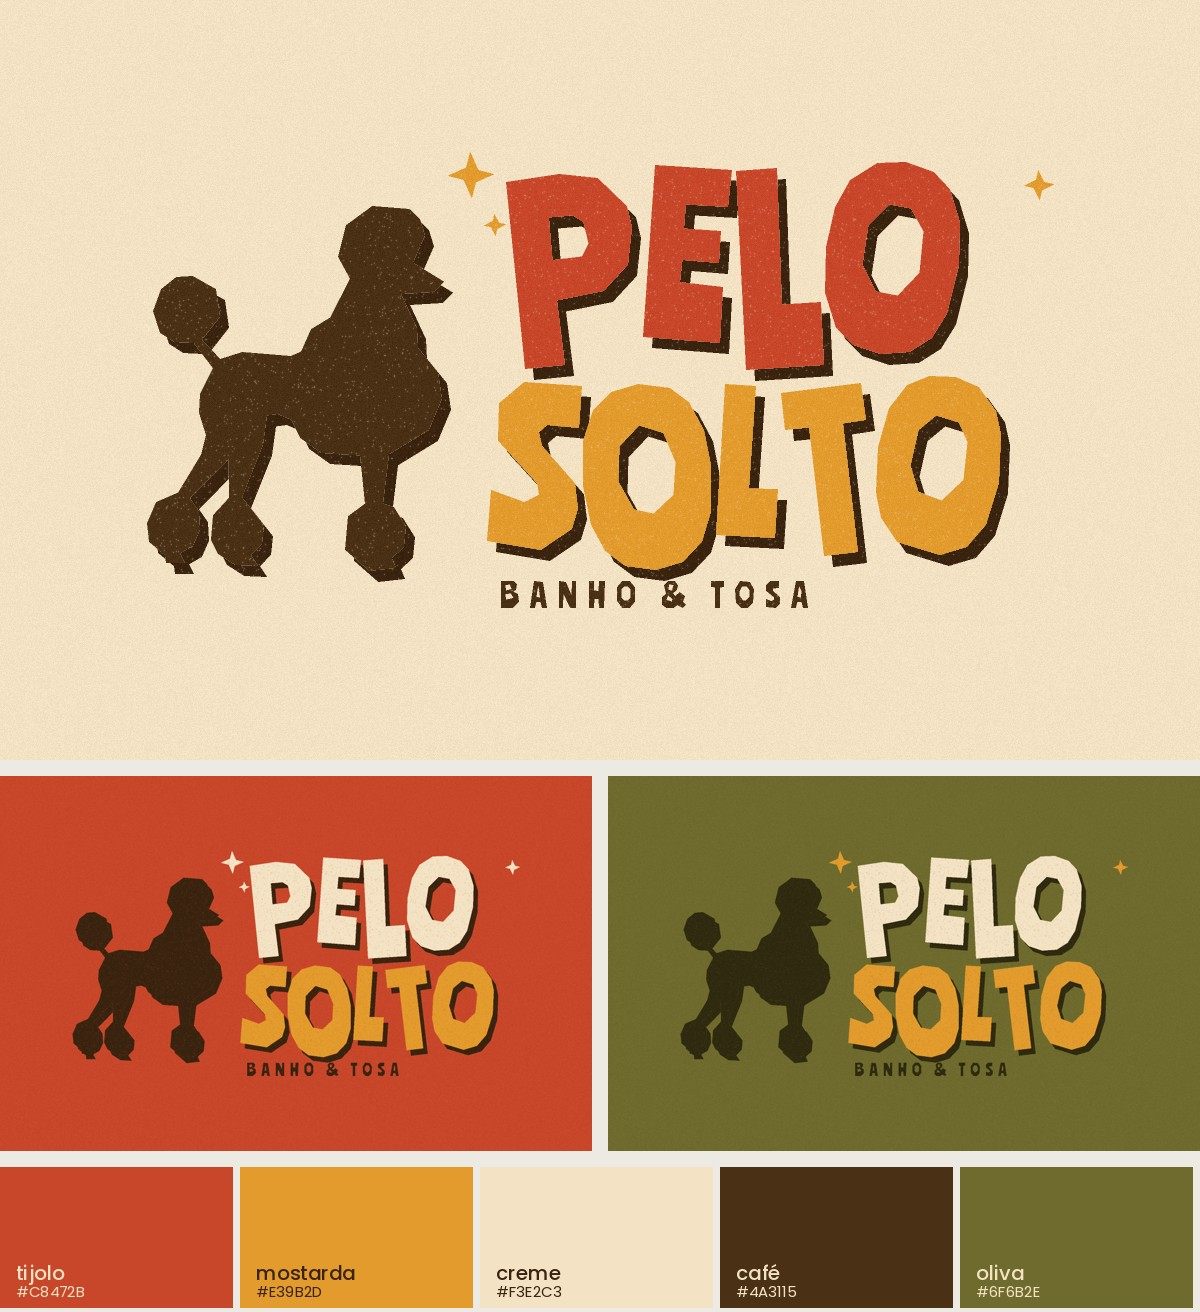
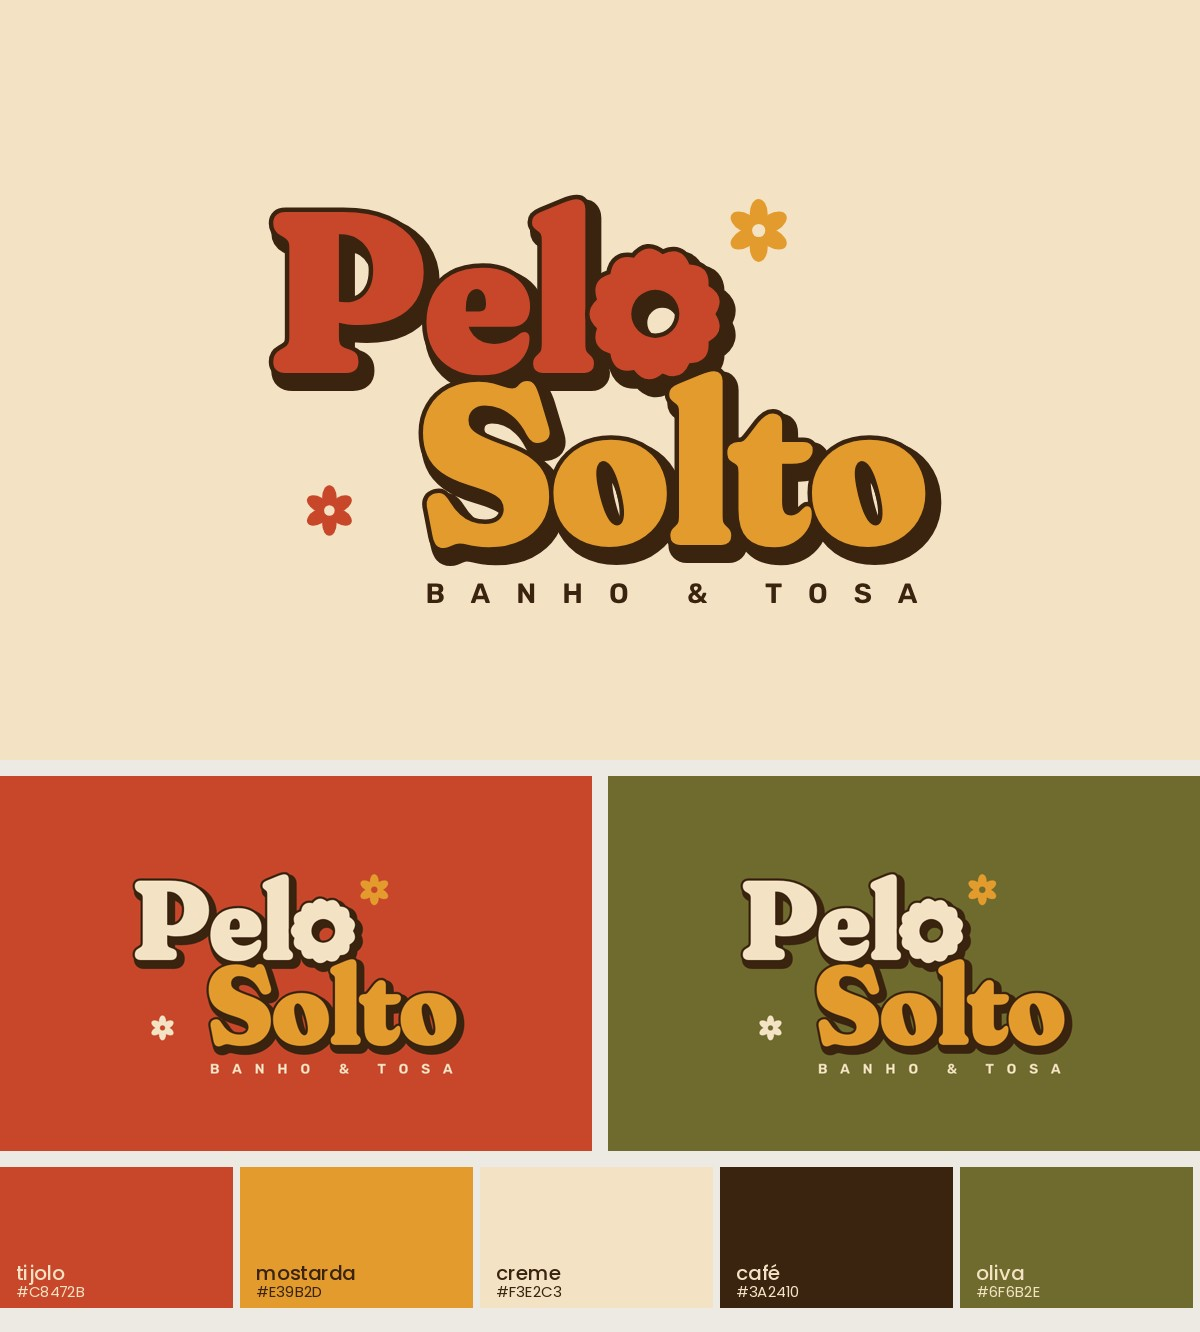
EMS: pelo solto v3, lettering com o pompom de poodle no lugar do o
A Emi achou a v2 com cara de IA: o poodle de clip-art, os brilhos
genéricos e o bloco centralizado. Na v3, Pelo e Solto ficam escalonados e
encaixados (Haley Sue), o o de Pelo vira um pompom de poodle tosado, as
flores de seis pétalas entram no lugar dos brilhos, o contorno e a sombra
café do Moon Gazer continuam e o BANHO & TOSA tem a largura exata de
Solto. A v2 fica em logo-v2-poodle.html.

Claude-Session: https://claude.ai/code/session_01CmCiK9WG5RWJH1hBNUU9U9

diff --git a/Emi/ems-5-direcoes-pet/projeto/marcas/pelo-solto/logo.html b/Emi/ems-5-direcoes-pet/projeto/marcas/pelo-solto/logo.html
@@ -1,72 +1,81 @@
 <!doctype html>
-<!-- pelo solto · logo v2 (a v1 de papel recortado foi reprovada: "quero mais refinado e arredondado, bem vintage, siga as
-     referências; o banho e tosa embaixo totalmente desalinhado, péssimo").
-     Referências (referencias/pelo-solto): 2 Haley Sue (serifa anos 70 macia, paleta), 3 Moon Gazer (duas cores, contorno e
-     sombra café, brilhos, subtítulo espaçado embaixo), 20 The Barking Barber (o bicho ao lado do nome, letras dançando de leve).
-     Tudo num eixo só: Pelo, Solto e BANHO & TOSA centralizados na mesma linha vertical; o subtítulo tem exatamente a largura
-     de "Solto" (textLength), e o poodle fica centrado na altura do bloco.
-     ?letra=fraunces (serifa macia, padrão) | ?letra=leckerli (script, Moon Gazer) · ?fundo=&pelo=&solto=&tinta= · ?w=&h=&escala= -->
+<!-- pelo solto · logo v3. Histórico:
+     - v1, papel recortado, reprovada: "quero mais refinado e arredondado, bem vintage; o banho e tosa desalinhado";
+     - v2, A: serifa macia com o poodle ao lado (logo-v2-poodle.html): "a A tá melhor, mas ainda tá com cara de IA".
+       O que dava cara de IA: o poodle de clip-art gerado, os brilhos genéricos e tudo em bloco centralizado.
+     Na v3 sai o clip-art e a marca vira lettering de verdade, como o Haley Sue (2):
+       - "Pelo" e "Solto" escalonados e encaixados (Solto entra por baixo, deslocado para a direita);
+       - o "o" de "Pelo" vira um pompom de poodle tosado (borda fofinha em ondas, miolo redondo): o cachorro está na letra;
+       - flores de seis pétalas do Haley Sue no lugar dos brilhos;
+       - contorno e sombra café do Moon Gazer (3), mantidos porque ela gostou;
+       - BANHO & TOSA pequeno embaixo de "Solto", com a largura exata dele (a regra que resolveu o desalinhamento da v1).
+     ?fundo=&pelo=&solto=&tinta=&sub= · ?w=&h=&escala=&dx=&dy= -->
 <html><head><meta charset="utf-8"><style>
 @font-face { font-family: Fraunces; src: url(../../fonts/Fraunces.woff2); font-weight: 100 900; }
-@font-face { font-family: Leckerli; src: url(../../fonts/LeckerliOne.woff2); }
 @font-face { font-family: Rubik; src: url(../../fonts/Rubik-var-latin.woff2); font-weight: 300 900; }
 html, body { margin: 0; }
 .palco { position: relative; width: 1200px; height: 760px; overflow: hidden; background: var(--fundo); }
 svg { position: absolute; left: 0; top: 0; }
-.fraunces .n { font-family: Fraunces; font-weight: 900; font-variation-settings: 'SOFT' 100, 'WONK' 1, 'opsz' 144; }
-.leckerli .n { font-family: Leckerli; }
+.n { font-family: Fraunces; font-weight: 900; font-variation-settings: 'SOFT' 100, 'WONK' 1, 'opsz' 144; }
 .sub { font-family: Rubik; font-weight: 600; }
 </style></head><body>
 <div class="palco"><svg id="s" width="1200" height="760" viewBox="0 0 1200 760">
-  <defs><filter id="tinge"><feFlood id="cor-cao" flood-color="#4A3115"/><feComposite in2="SourceAlpha" operator="in"/></filter></defs>
   <g id="logo">
-    <image id="cao" href="poodle-liso.png" filter="url(#tinge)"/>
-    <g id="nome" text-anchor="middle">
-      <!-- sombra (contorno grosso deslocado) e frente (cor + contorno fino) -->
-      <text class="n sh" id="p0" stroke-linejoin="round">Pelo</text>
-      <text class="n" id="p1" stroke-linejoin="round" paint-order="stroke">Pelo</text>
-      <text class="n sh" id="s0" stroke-linejoin="round">Solto</text>
-      <text class="n" id="s1" stroke-linejoin="round" paint-order="stroke">Solto</text>
-      <text class="sub" id="sub" lengthAdjust="spacing">BANHO &amp; TOSA</text>
-    </g>
-    <g id="brilhos"></g>
+    <g id="sombras"></g>
+    <g id="frente"></g>
+    <text class="n" id="medida" font-size="230" fill="none" visibility="hidden">o</text>
   </g>
 </svg></div>
 <script>
-const q = new URLSearchParams(location.search), $ = (i) => document.getElementById(i);
-const C = { fundo: q.get('fundo') || '#F3E2C3', pelo: q.get('pelo') || '#C8472B', solto: q.get('solto') || '#E39B2D', tinta: q.get('tinta') || '#3A2410', cao: q.get('cao') || '#4A3115' };
+const q = new URLSearchParams(location.search), $ = (i) => document.getElementById(i), NS = 'http://www.w3.org/2000/svg';
+const C = { fundo: q.get('fundo') || '#F3E2C3', pelo: q.get('pelo') || '#C8472B', solto: q.get('solto') || '#E39B2D', tinta: q.get('tinta') || '#3A2410', sub: q.get('sub') || q.get('tinta') || '#3A2410', flor: q.get('flor') || '#E39B2D', flor2: q.get('flor2') || q.get('pelo') || '#C8472B' };
 document.querySelector('.palco').style.setProperty('--fundo', C.fundo);
-const letra = q.get('letra') || 'fraunces'; document.body.className = letra;
-$('cor-cao').setAttribute('flood-color', C.cao);
-const T = letra === 'leckerli' ? { fs: 190, l1: 0, l2: 170, sub: 150, sw: 9, sh: 18, dx: 7, dy: 9, ls: 0 } : { fs: 200, l1: 0, l2: 175, sub: 150, sw: 9, sh: 18, dx: 7, dy: 9, ls: -4 };
-const CX = 0;   // eixo do bloco do nome
-for (const [id, y, cor] of [['p', T.l1, C.pelo], ['s', T.l2, C.solto]]) {
-  const sh = $(id + '0'), fr = $(id + '1');
-  for (const e of [sh, fr]) { e.setAttribute('x', CX); e.setAttribute('y', y); e.setAttribute('font-size', T.fs); e.setAttribute('letter-spacing', T.ls); }
-  sh.setAttribute('transform', `translate(${T.dx} ${T.dy})`); sh.setAttribute('fill', C.tinta); sh.setAttribute('stroke', C.tinta); sh.setAttribute('stroke-width', T.sh);
-  fr.setAttribute('fill', cor); fr.setAttribute('stroke', C.tinta); fr.setAttribute('stroke-width', T.sw);
+const FS = 230, SW = 9, SH = 18, DX = 7, DY = 9;
+const el = (tag, at, pai) => { const e = document.createElementNS(NS, tag); for (const k in at) e.setAttribute(k, at[k]); (pai || $('frente')).appendChild(e); return e; };
+// pompom: círculo com a borda em ondas (pelo tosado), miolo redondo
+function pompom(cx, cy, R, ondas) {
+  let d = '';
+  for (let i = 0; i <= ondas; i++) {
+    const a0 = (i / ondas) * 2 * Math.PI, a1 = ((i + .5) / ondas) * 2 * Math.PI, a2 = ((i + 1) / ondas) * 2 * Math.PI;
+    const p = (a, r) => `${(cx + r * Math.cos(a)).toFixed(1)} ${(cy + r * Math.sin(a)).toFixed(1)}`;
+    if (i === 0) d += `M${p(a0, R * .9)} `;
+    if (i < ondas) d += `Q${p(a1, R * 1.1)} ${p(a2, R * .9)} `;
+  }
+  return d + 'Z';
 }
 document.fonts.ready.then(() => {
-  // subtítulo: exatamente a largura de "Solto", no mesmo eixo
-  const bs = $('s1').getBBox(), sub = $('sub');
-  sub.setAttribute('x', CX); sub.setAttribute('text-anchor', 'middle'); sub.setAttribute('font-size', 30); sub.setAttribute('fill', C.tinta);
-  sub.setAttribute('y', T.l2 + 70); sub.setAttribute('textLength', Math.round(bs.width - 16));
-  // com textLength, posiciona pela esquerda (largura exata de "Solto", 8 px para dentro de cada lado)
-  sub.setAttribute('text-anchor', 'start'); sub.setAttribute('x', bs.x + 8);   // 'start' explícito: o grupo herda 'middle'
-  // poodle: altura do bloco Pelo+Solto, à esquerda, centrado na vertical do bloco
-  const bp = $('p1').getBBox(), topo = bp.y, base = bs.y + bs.height, alt = (base - topo) * 1.02;
-  const cao = $('cao'), ar = 1406 / 1730, cw = alt * ar;
-  cao.setAttribute('height', alt); cao.setAttribute('width', cw);
-  const larguraNome = Math.max(bp.width, bs.width), esq = CX - larguraNome / 2;
-  cao.setAttribute('x', esq - cw - 46); cao.setAttribute('y', topo + (base - topo - alt) / 2);
-  // brilhos de quatro pontas (Moon Gazer): um par em cima à esquerda do "Pelo", um à direita do "Solto"
-  const b = (x, y, r, cor) => `<path d="M${x} ${y - r} Q${x + r * .18} ${y - r * .18} ${x + r} ${y} Q${x + r * .18} ${y + r * .18} ${x} ${y + r} Q${x - r * .18} ${y + r * .18} ${x - r} ${y} Q${x - r * .18} ${y - r * .18} ${x} ${y - r}Z" fill="${cor}"/>`;
-  $('brilhos').innerHTML = b(bp.x - 14, bp.y + 18, 24, C.solto) + b(bp.x + 20, bp.y - 16, 13, C.solto) + b(bs.x + bs.width + 30, bs.y + 22, 20, C.pelo);
-  // centraliza o logo inteiro no palco pela caixa real
+  const X0 = 300, Y0 = 330, DESL = 150, ENTRE = 172;
+  // "Pel" + pompom no lugar do "o"
+  const tPel = (cls) => el('text', { class: 'n', x: X0, y: Y0, 'font-size': FS, 'letter-spacing': -4 }, cls);
+  const tSol = (cls) => el('text', { class: 'n', x: X0 + DESL, y: Y0 + ENTRE, 'font-size': FS, 'letter-spacing': -4 }, cls);
+  const pf = tPel(); pf.textContent = 'Pel';
+  const bPel = pf.getBBox(); $('medida').remove();
+  // o "o" da Fraunces 900 tem ~0,53 do corpo de altura: o pompom fica um pouco maior (fofo)
+  const R = FS * .29, cx = bPel.x + bPel.width + R * .92, cy = Y0 - FS * .255;
+  const dPom = pompom(cx, cy, R, 13), rMiolo = R * .36;
+  const sf = tSol(); sf.textContent = 'Solto';
+  const bSol = sf.getBBox();
+  pf.remove(); sf.remove();
+  // sombras (contorno grosso deslocado), depois a frente
+  const sombra = $('sombras'); sombra.setAttribute('transform', `translate(${DX} ${DY})`);
+  for (const pai of [sombra, $('frente')]) {
+    const eh = pai === sombra, est = eh ? { fill: C.tinta, stroke: C.tinta, 'stroke-width': SH } : { stroke: C.tinta, 'stroke-width': SW, 'paint-order': 'stroke' };
+    const sol = el('text', { class: 'n', x: X0 + DESL, y: Y0 + ENTRE, 'font-size': FS, 'letter-spacing': -4, 'stroke-linejoin': 'round', ...est, ...(eh ? {} : { fill: C.solto }) }, pai); sol.textContent = 'Solto';
+    const pel = el('text', { class: 'n', x: X0, y: Y0, 'font-size': FS, 'letter-spacing': -4, 'stroke-linejoin': 'round', ...est, ...(eh ? {} : { fill: C.pelo }) }, pai); pel.textContent = 'Pel';
+    el('path', { d: dPom + ` M${cx + rMiolo} ${cy} A${rMiolo} ${rMiolo} 0 1 0 ${cx - rMiolo} ${cy} A${rMiolo} ${rMiolo} 0 1 0 ${cx + rMiolo} ${cy}Z`, 'fill-rule': 'evenodd', 'stroke-linejoin': 'round', ...est, ...(eh ? {} : { fill: C.pelo }) }, pai);
+  }
+  // BANHO & TOSA: embaixo de "Solto", com exatamente a largura dele (8 px para dentro de cada lado)
+  el('text', { class: 'sub', x: bSol.x + 8, y: Y0 + ENTRE + 58, 'font-size': 28, fill: C.sub, textLength: Math.round(bSol.width - 16), lengthAdjust: 'spacing' }).textContent = 'BANHO & TOSA';
+  // flores de seis pétalas (Haley Sue)
+  const flor = (x, y, r, cor) => { const g = el('g', { transform: `translate(${x} ${y})` });
+    for (let i = 0; i < 6; i++) el('ellipse', { cx: 0, cy: -r * .55, rx: r * .3, ry: r * .5, fill: cor, transform: `rotate(${i * 60})` }, g);
+    el('circle', { cx: 0, cy: 0, r: r * .22, fill: C.fundo }, g); };
+  flor(cx + R * 1.55, cy - R * 1.25, 30, C.flor);
+  flor(bPel.x + 62, Y0 + ENTRE - 34, 24, C.flor2);   // embaixo do "P", no vão à esquerda de "Solto" (equilibra o escalonado)
+  // centraliza pela caixa real
   const L = $('logo'), bb = L.getBBox(), W = +(q.get('w') || 1200), H = +(q.get('h') || 760), k = +(q.get('escala') || 1);
   const pc = document.querySelector('.palco'); pc.style.width = W + 'px'; pc.style.height = H + 'px';
   $('s').setAttribute('width', W); $('s').setAttribute('height', H); $('s').setAttribute('viewBox', `0 0 ${W} ${H}`);
   L.setAttribute('transform', `translate(${W / 2 + (+(q.get('dx') || 0))} ${H / 2 + (+(q.get('dy') || 0))}) scale(${k}) translate(${-(bb.x + bb.width / 2)} ${-(bb.y + bb.height / 2)})`);
-  document.body.dataset.pronto = 1;
 });
 </script></body></html>

diff --git a/Emi/ems-5-direcoes-pet/projeto/marcas/pelo-solto/logo-v2-poodle.html b/Emi/ems-5-direcoes-pet/projeto/marcas/pelo-solto/logo-v2-poodle.html
@@ -1,0 +1,72 @@
+<!doctype html>
+<!-- pelo solto · logo v2 (a v1 de papel recortado foi reprovada: "quero mais refinado e arredondado, bem vintage, siga as
+     referências; o banho e tosa embaixo totalmente desalinhado, péssimo").
+     Referências (referencias/pelo-solto): 2 Haley Sue (serifa anos 70 macia, paleta), 3 Moon Gazer (duas cores, contorno e
+     sombra café, brilhos, subtítulo espaçado embaixo), 20 The Barking Barber (o bicho ao lado do nome, letras dançando de leve).
+     Tudo num eixo só: Pelo, Solto e BANHO & TOSA centralizados na mesma linha vertical; o subtítulo tem exatamente a largura
+     de "Solto" (textLength), e o poodle fica centrado na altura do bloco.
+     ?letra=fraunces (serifa macia, padrão) | ?letra=leckerli (script, Moon Gazer) · ?fundo=&pelo=&solto=&tinta= · ?w=&h=&escala= -->
+<html><head><meta charset="utf-8"><style>
+@font-face { font-family: Fraunces; src: url(../../fonts/Fraunces.woff2); font-weight: 100 900; }
+@font-face { font-family: Leckerli; src: url(../../fonts/LeckerliOne.woff2); }
+@font-face { font-family: Rubik; src: url(../../fonts/Rubik-var-latin.woff2); font-weight: 300 900; }
+html, body { margin: 0; }
+.palco { position: relative; width: 1200px; height: 760px; overflow: hidden; background: var(--fundo); }
+svg { position: absolute; left: 0; top: 0; }
+.fraunces .n { font-family: Fraunces; font-weight: 900; font-variation-settings: 'SOFT' 100, 'WONK' 1, 'opsz' 144; }
+.leckerli .n { font-family: Leckerli; }
+.sub { font-family: Rubik; font-weight: 600; }
+</style></head><body>
+<div class="palco"><svg id="s" width="1200" height="760" viewBox="0 0 1200 760">
+  <defs><filter id="tinge"><feFlood id="cor-cao" flood-color="#4A3115"/><feComposite in2="SourceAlpha" operator="in"/></filter></defs>
+  <g id="logo">
+    <image id="cao" href="poodle-liso.png" filter="url(#tinge)"/>
+    <g id="nome" text-anchor="middle">
+      <!-- sombra (contorno grosso deslocado) e frente (cor + contorno fino) -->
+      <text class="n sh" id="p0" stroke-linejoin="round">Pelo</text>
+      <text class="n" id="p1" stroke-linejoin="round" paint-order="stroke">Pelo</text>
+      <text class="n sh" id="s0" stroke-linejoin="round">Solto</text>
+      <text class="n" id="s1" stroke-linejoin="round" paint-order="stroke">Solto</text>
+      <text class="sub" id="sub" lengthAdjust="spacing">BANHO &amp; TOSA</text>
+    </g>
+    <g id="brilhos"></g>
+  </g>
+</svg></div>
+<script>
+const q = new URLSearchParams(location.search), $ = (i) => document.getElementById(i);
+const C = { fundo: q.get('fundo') || '#F3E2C3', pelo: q.get('pelo') || '#C8472B', solto: q.get('solto') || '#E39B2D', tinta: q.get('tinta') || '#3A2410', cao: q.get('cao') || '#4A3115' };
+document.querySelector('.palco').style.setProperty('--fundo', C.fundo);
+const letra = q.get('letra') || 'fraunces'; document.body.className = letra;
+$('cor-cao').setAttribute('flood-color', C.cao);
+const T = letra === 'leckerli' ? { fs: 190, l1: 0, l2: 170, sub: 150, sw: 9, sh: 18, dx: 7, dy: 9, ls: 0 } : { fs: 200, l1: 0, l2: 175, sub: 150, sw: 9, sh: 18, dx: 7, dy: 9, ls: -4 };
+const CX = 0;   // eixo do bloco do nome
+for (const [id, y, cor] of [['p', T.l1, C.pelo], ['s', T.l2, C.solto]]) {
+  const sh = $(id + '0'), fr = $(id + '1');
+  for (const e of [sh, fr]) { e.setAttribute('x', CX); e.setAttribute('y', y); e.setAttribute('font-size', T.fs); e.setAttribute('letter-spacing', T.ls); }
+  sh.setAttribute('transform', `translate(${T.dx} ${T.dy})`); sh.setAttribute('fill', C.tinta); sh.setAttribute('stroke', C.tinta); sh.setAttribute('stroke-width', T.sh);
+  fr.setAttribute('fill', cor); fr.setAttribute('stroke', C.tinta); fr.setAttribute('stroke-width', T.sw);
+}
+document.fonts.ready.then(() => {
+  // subtítulo: exatamente a largura de "Solto", no mesmo eixo
+  const bs = $('s1').getBBox(), sub = $('sub');
+  sub.setAttribute('x', CX); sub.setAttribute('text-anchor', 'middle'); sub.setAttribute('font-size', 30); sub.setAttribute('fill', C.tinta);
+  sub.setAttribute('y', T.l2 + 70); sub.setAttribute('textLength', Math.round(bs.width - 16));
+  // com textLength, posiciona pela esquerda (largura exata de "Solto", 8 px para dentro de cada lado)
+  sub.setAttribute('text-anchor', 'start'); sub.setAttribute('x', bs.x + 8);   // 'start' explícito: o grupo herda 'middle'
+  // poodle: altura do bloco Pelo+Solto, à esquerda, centrado na vertical do bloco
+  const bp = $('p1').getBBox(), topo = bp.y, base = bs.y + bs.height, alt = (base - topo) * 1.02;
+  const cao = $('cao'), ar = 1406 / 1730, cw = alt * ar;
+  cao.setAttribute('height', alt); cao.setAttribute('width', cw);
+  const larguraNome = Math.max(bp.width, bs.width), esq = CX - larguraNome / 2;
+  cao.setAttribute('x', esq - cw - 46); cao.setAttribute('y', topo + (base - topo - alt) / 2);
+  // brilhos de quatro pontas (Moon Gazer): um par em cima à esquerda do "Pelo", um à direita do "Solto"
+  const b = (x, y, r, cor) => `<path d="M${x} ${y - r} Q${x + r * .18} ${y - r * .18} ${x + r} ${y} Q${x + r * .18} ${y + r * .18} ${x} ${y + r} Q${x - r * .18} ${y + r * .18} ${x - r} ${y} Q${x - r * .18} ${y - r * .18} ${x} ${y - r}Z" fill="${cor}"/>`;
+  $('brilhos').innerHTML = b(bp.x - 14, bp.y + 18, 24, C.solto) + b(bp.x + 20, bp.y - 16, 13, C.solto) + b(bs.x + bs.width + 30, bs.y + 22, 20, C.pelo);
+  // centraliza o logo inteiro no palco pela caixa real
+  const L = $('logo'), bb = L.getBBox(), W = +(q.get('w') || 1200), H = +(q.get('h') || 760), k = +(q.get('escala') || 1);
+  const pc = document.querySelector('.palco'); pc.style.width = W + 'px'; pc.style.height = H + 'px';
+  $('s').setAttribute('width', W); $('s').setAttribute('height', H); $('s').setAttribute('viewBox', `0 0 ${W} ${H}`);
+  L.setAttribute('transform', `translate(${W / 2 + (+(q.get('dx') || 0))} ${H / 2 + (+(q.get('dy') || 0))}) scale(${k}) translate(${-(bb.x + bb.width / 2)} ${-(bb.y + bb.height / 2)})`);
+  document.body.dataset.pronto = 1;
+});
+</script></body></html>

diff --git a/.claude/skills/artes-clientes/clientes/ems.md b/.claude/skills/artes-clientes/clientes/ems.md
@@ -145,6 +145,18 @@ Referências e o que saiu de cada uma: `Emi/ems-5-direcoes-pet/referencias/marca
   - Na MIAU.LAB estava 10 px fora.
   - O dx positivo leva a tinta para a direita: para tirar folga da esquerda, dx diminui.
   - Depois, centralizado na moldura, ela achou que "foi demais" e pediu "um pouquinho de nada de volta". Ficou 3 px para a direita e para cima. O ponto certo, para o olho dela, fica entre a moldura e a área verde, um pouco mais perto da moldura.
+- **Banho e tosa (direção 03): pelo solto.**
+  - Pesquisa: `referencias/pelo-solto`. Ela escolheu 2 Haley Sue, 3 Moon Gazer e "principalmente" 20 Barking Barber.
+  - v1, papel recortado (approxPolyDP): "quero mais refinado e arredondado, bem vintage". O BANHO & TOSA estava desalinhado: "péssimo".
+  - v2, serifa macia com o poodle gerado ao lado: "a A tá melhor, mas tá com cara de IA". A cara de IA vem de:
+    - **o bicho de clip-art gerado ao lado do nome;**
+    - os brilhos genéricos;
+    - o bloco todo centralizado.
+  - v3 tira o clip-art e vira lettering:
+    - "Pelo" e "Solto" escalonados e encaixados;
+    - o "o" vira um pompom de poodle tosado (o bicho fica dentro da letra, como a pata no "O" do TOTÓ);
+    - flores do Haley Sue;
+    - o subtítulo com a largura exata de "Solto" (`textLength`).
 - **Run club (direção 04): virou MATILHA running club.**
   - A identidade "AU" (número de peito na Graduate) foi reprovada: "feia, xoxa".
   - Pesquisa: `referencias/au-running-club/identidade`. Ela escolheu misturar 1 (RUN CLUB), 7 (TRC) e 18 (Wild Pup), lembrando que é corrida **com** cachorro.
